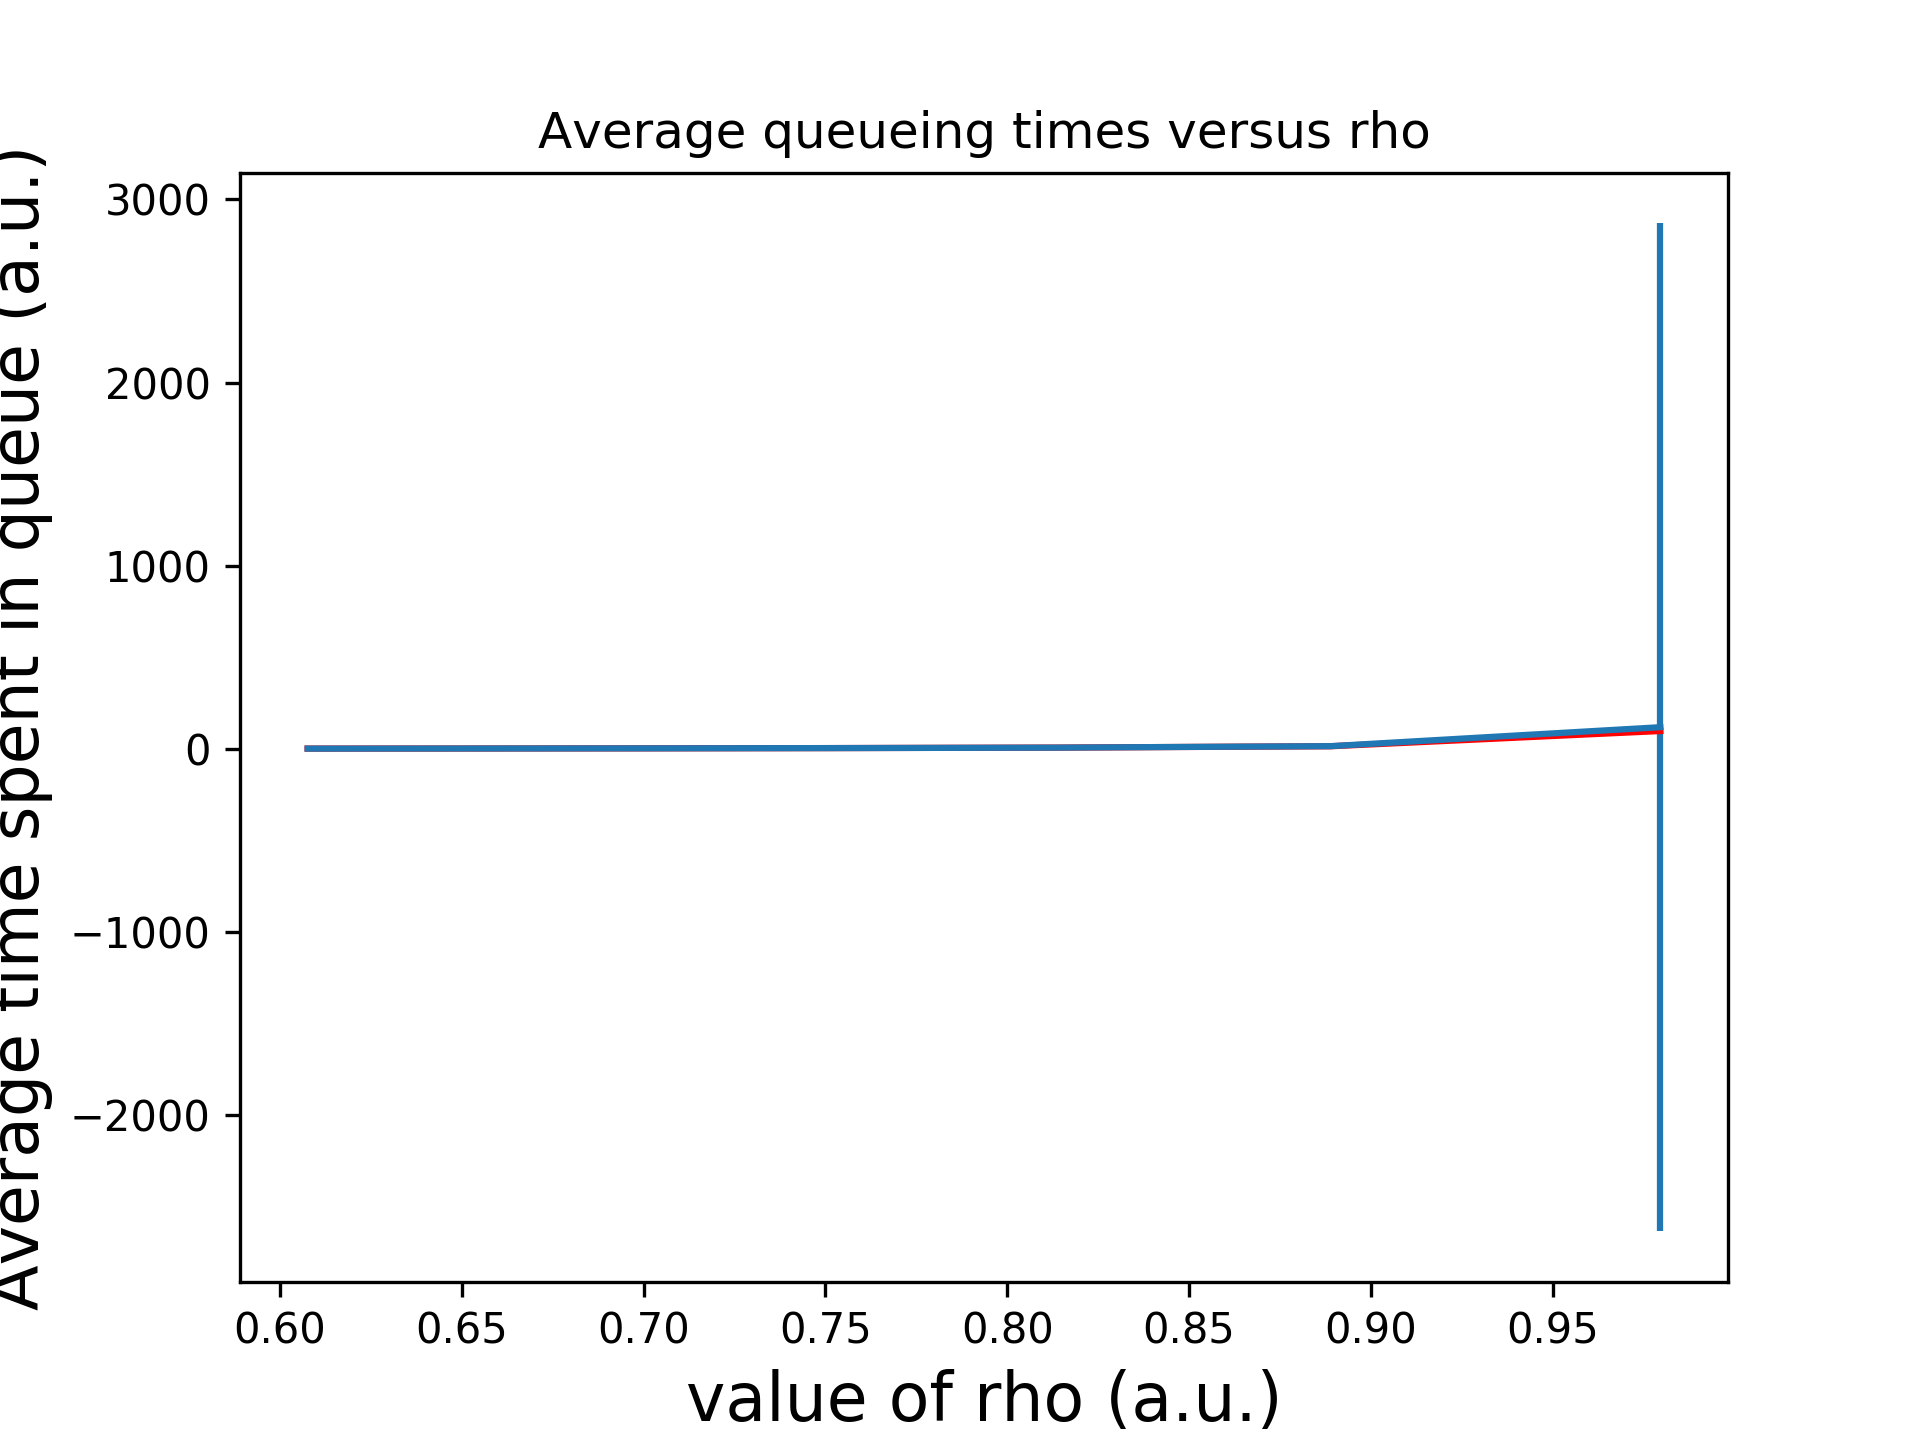
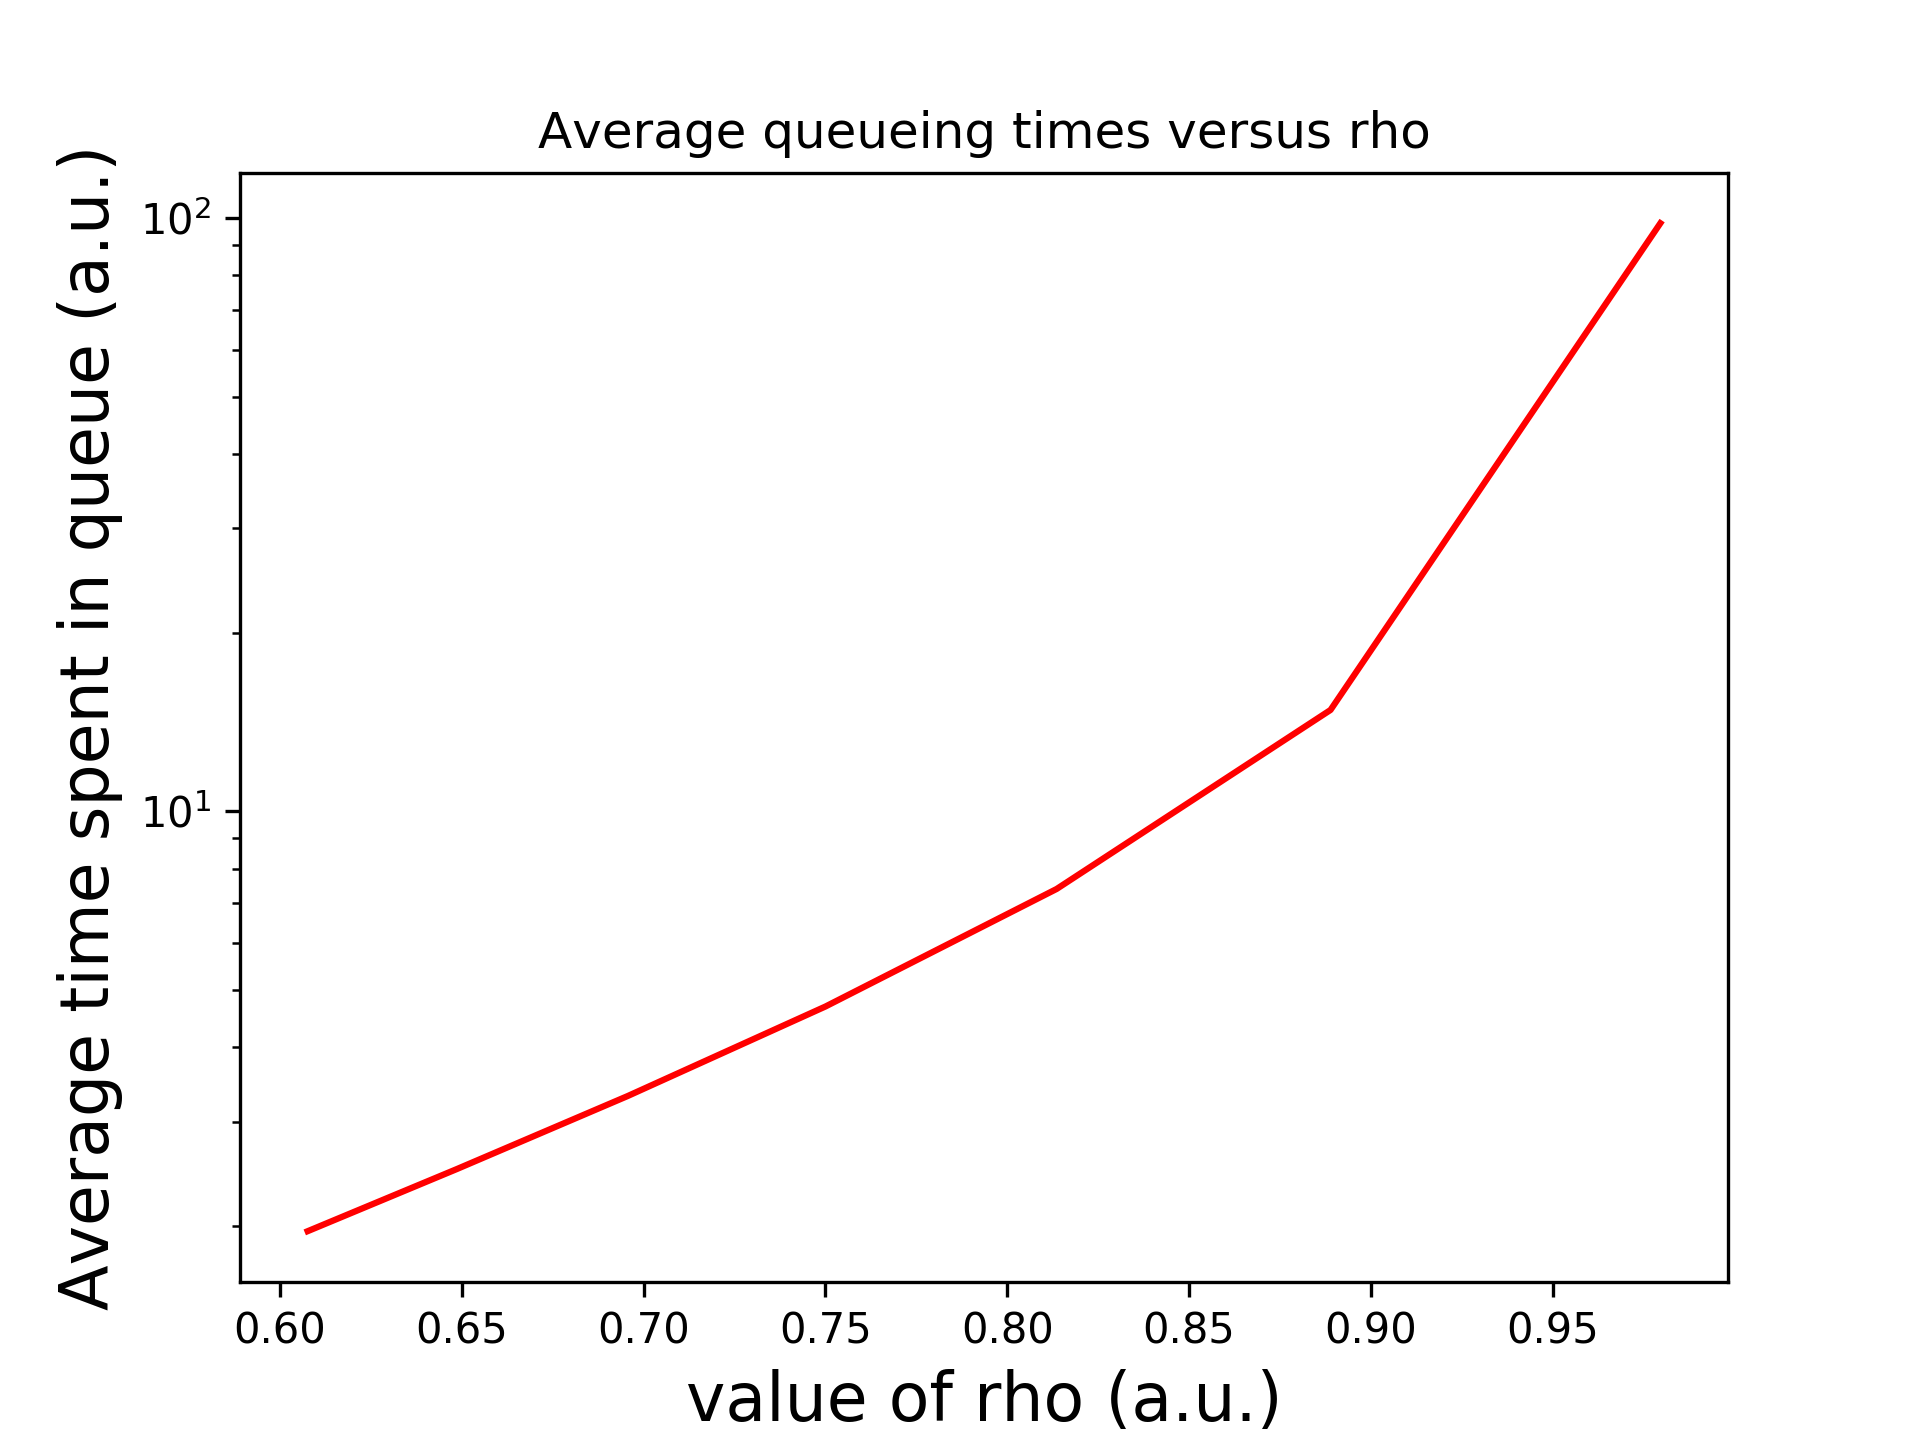
Cancelled list appending and gave them fixed size for speed, also added the distributions

diff --git a/Code/functions.py b/Code/functions.py
@@ -7,6 +7,7 @@ import global_variables
 import os
 from scipy.optimize import curve_fit
 from scipy.special import factorial
+import random as rd
 
 class Serversystem(object):
     "A server has n desks at which tasks can be carried out, if all desks are in use, a task has to wait"
@@ -21,18 +22,26 @@ class Serversystem(object):
         #print("Carrying out the task took {}".format(self.env.now))
 
 
-def task(env, name, ss, mu, sjf):
+def task(env, name, ss, mu, sjf, db_helptime, counter):
     "A task process that will be carried out by a serversystem (ss) after having waited for a server to become available"
     # wait for server to become available
     global_variables.queue_length += 1
-    global_variables.queue_length_list.append(global_variables.queue_length)
-    global_variables.queue_time_list.append(env.now)
+    global_variables.queue_length_list[counter] = global_variables.queue_length
+    global_variables.queue_time_list[counter] = env.now
 
     # calculate how long helping is going to take
-    helptime = np.random.exponential(1/mu)  # generates pdf mu * exp(-mu*x)
+    if db_helptime == "M":
+        helptime = np.random.exponential(1/mu)  # generates pdf mu * exp(-mu*x)
+    if db_helptime == "D":
+        helptime = 1/mu
+    if db_helptime == "LT":
+        if np.random.rand() < 0.75:
+            helptime = np.random.exponential(1)  # average helptime of 1.0
+        else:
+            helptime = np.random.exponential(5)  # average helptime of 1.
 
     # append the helptime of a task to a global list
-    global_variables.list_helptime.append(helptime)
+    global_variables.list_helptime[counter] = helptime
 
     if sjf:
         prio = int(helptime * 1000)
@@ -43,18 +52,18 @@ def task(env, name, ss, mu, sjf):
         time_before = env.now
         yield request
         #print("{} started by server at {}".format(name, env.now))
-        global_variables.time_spend_in_queue_list.append(env.now - time_before)
+        global_variables.time_spend_in_queue_list[counter] = env.now - time_before
 
         # wait until someone moves out of the queue
         yield env.process(ss.help(name, helptime))
         global_variables.queue_length -= 1
         #print("{} carried out by server at {}".format(name, env.now))
 
-def setup(env, n_server, mu, l, sjf, end_n_actions):
+def setup(env, n_server, mu, l, sjf, end_n_actions, db_helptime):
     '''Here we create a server system with a certain number of servers. We start creating cars at random'''
     serversystem = Serversystem(env, n_server, mu)
 
-    i = 0
+    counter = 0
     # create task until the simulation time is over
     while True:
 
@@ -62,15 +71,15 @@ def setup(env, n_server, mu, l, sjf, end_n_actions):
         arrivaltime = np.random.exponential(1/l) # generates pdf l * exp(-l*x)
 
         # append the arrival time to a global list
-        global_variables.list_arrivaltime.append(arrivaltime)
+        global_variables.list_arrivaltime[counter]=arrivaltime
 
         # wait until new task arrives
         yield env.timeout(arrivaltime) # arrival time needs to be made random
 
-        i += 1
-        task_ref = env.process(task(env, 'Task{}'.format(i), serversystem, mu, sjf))
-
-        if i == end_n_actions:
+        counter += 1
+        task_ref = env.process(task(env, 'Task{}'.format(counter), serversystem, mu, sjf, db_helptime, counter))
+        print(counter)
+        if counter == end_n_actions:
             yield task_ref
             break
 

diff --git a/Code/main.py b/Code/main.py
@@ -14,15 +14,16 @@ from scipy.optimize import curve_fit
 from scipy.special import factorial
 
 n_server = 1
-mu = 0.50
-l = 0.48
-end_n_actions = 600000
+mu = 0.80
+l = 0.64
+end_n_actions = 3600000
 batch_size = 8000
-initialisation_period = 10000
+initialisation_period = 1
 n_simulations = 1
 n_batches = (end_n_actions-initialisation_period)/batch_size/2.
 print("this is the number of batches", n_batches)
 sjf = False  # use shortest job first
+db_helptime = "LT"  # choice between M, D, LT
 
 list_average_queuelength = []
 list_average_queuingtimes = []
@@ -31,13 +32,13 @@ list_average_queuingtimes = []
 for i in range(n_simulations):
 
     # initialize the global lists
-    init_global()
+    init_global(end_n_actions)
 
     # create a simpy environment
     env = simpy.Environment()
 
     # set up the system
-    env.process(setup(env, n_server, mu, l, sjf, end_n_actions))
+    env.process(setup(env, n_server, mu, l, sjf, end_n_actions, db_helptime))
 
     # run the program
     env.run()

diff --git a/Code/comparedifferentrhos.py b/Code/comparedifferentrhos.py
@@ -41,7 +41,7 @@ for mu in mu_range:
         env = simpy.Environment()
 
         # set up the system
-        env.process(setup(env, n_server, mu, l, sjf, end_n_actions))
+        env.process(setup(env, n_server, mu, l, sjf, end_n_actions, "M"))
 
         # run the program
         env.run()
@@ -66,9 +66,14 @@ plt.figure()
 plt.errorbar(l/mu_range, list_total_average_queuetimes, list_nf_confidence_average_queuetimes)
 plt.plot(l/mu_range, theoretical_waitingtime, 'r')
 plt.title("Average queueing times versus rho")
+plt.yscale("log")
 plt.xlabel("value of rho (a.u.)", fontsize=16)
 plt.ylabel("Average time spent in queue (a.u.)", fontsize=16)
 plt.savefig("queueingtimedifferentrhoscomparison.png", dpi=300)
 
+print("The theoretical values: ", theoretical_waitingtime)
+print("The expiremental values: ", list_total_average_queuetimes)
+print("The variances: ", list_nf_confidence_average_queuetimes)
+print("The rho values: ", (l/mu_range))
 
 plt.show()

diff --git a/Code/global_variables.py b/Code/global_variables.py
@@ -1,15 +1,17 @@
 # settings.py
 
-def init_global():
+import numpy as np
+
+def init_global(end_n_actions):
     global list_arrivaltime
-    list_arrivaltime = []
+    list_arrivaltime = np.zeros(end_n_actions+1)
     global list_helptime
-    list_helptime = []
+    list_helptime = np.zeros(end_n_actions+1)
     global queue_length
     queue_length = 0
     global queue_length_list
-    queue_length_list = []
+    queue_length_list = np.zeros(end_n_actions+1)
     global queue_time_list
-    queue_time_list = []
+    queue_time_list = np.zeros(end_n_actions+1)
     global time_spend_in_queue_list
-    time_spend_in_queue_list = []
+    time_spend_in_queue_list = np.zeros(end_n_actions+1)
